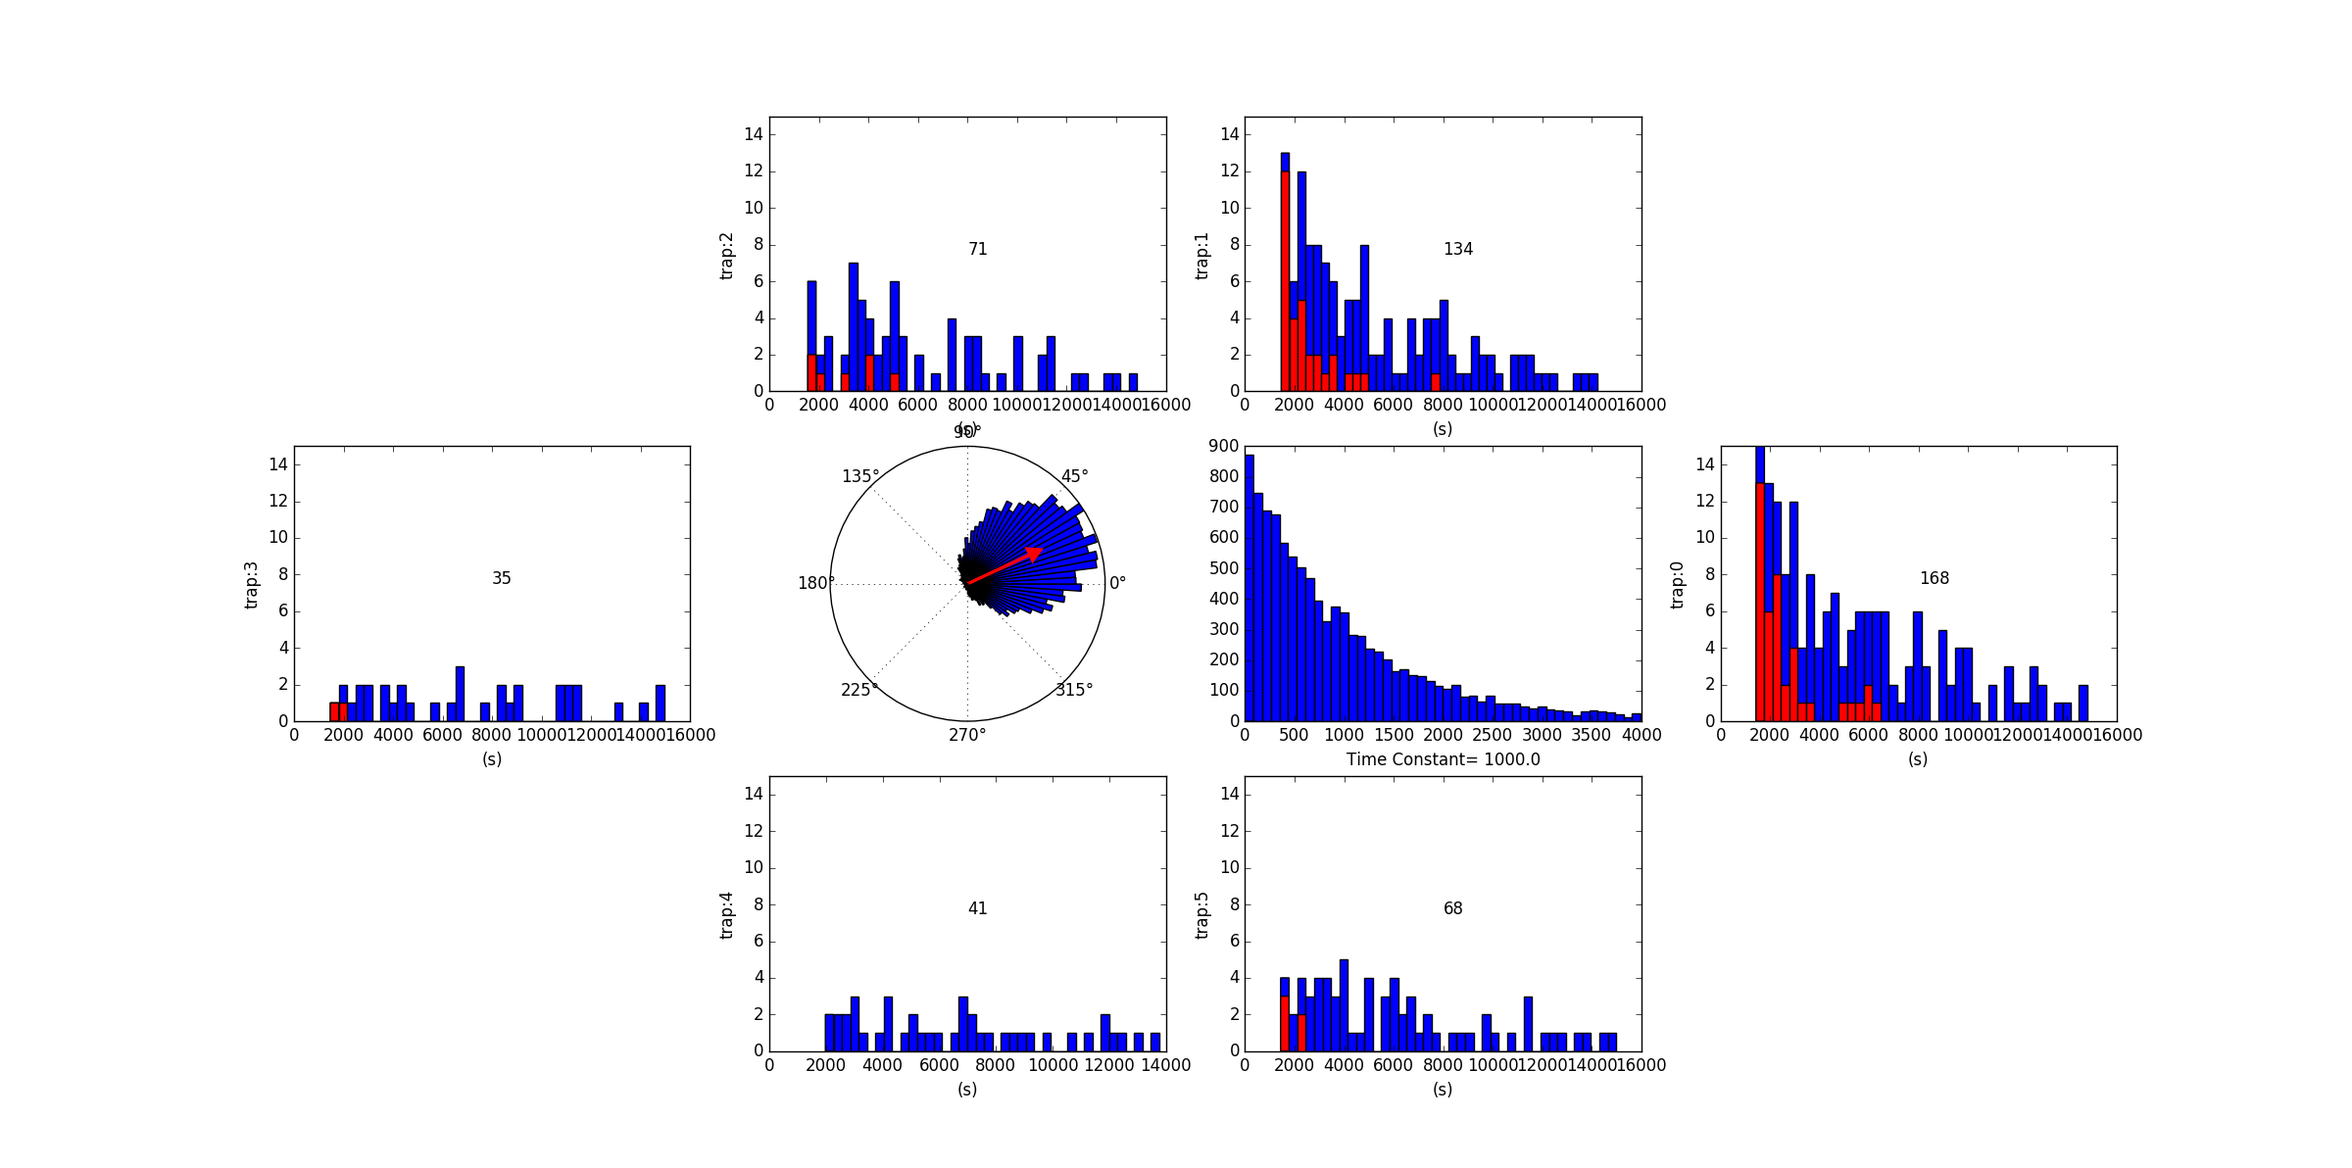
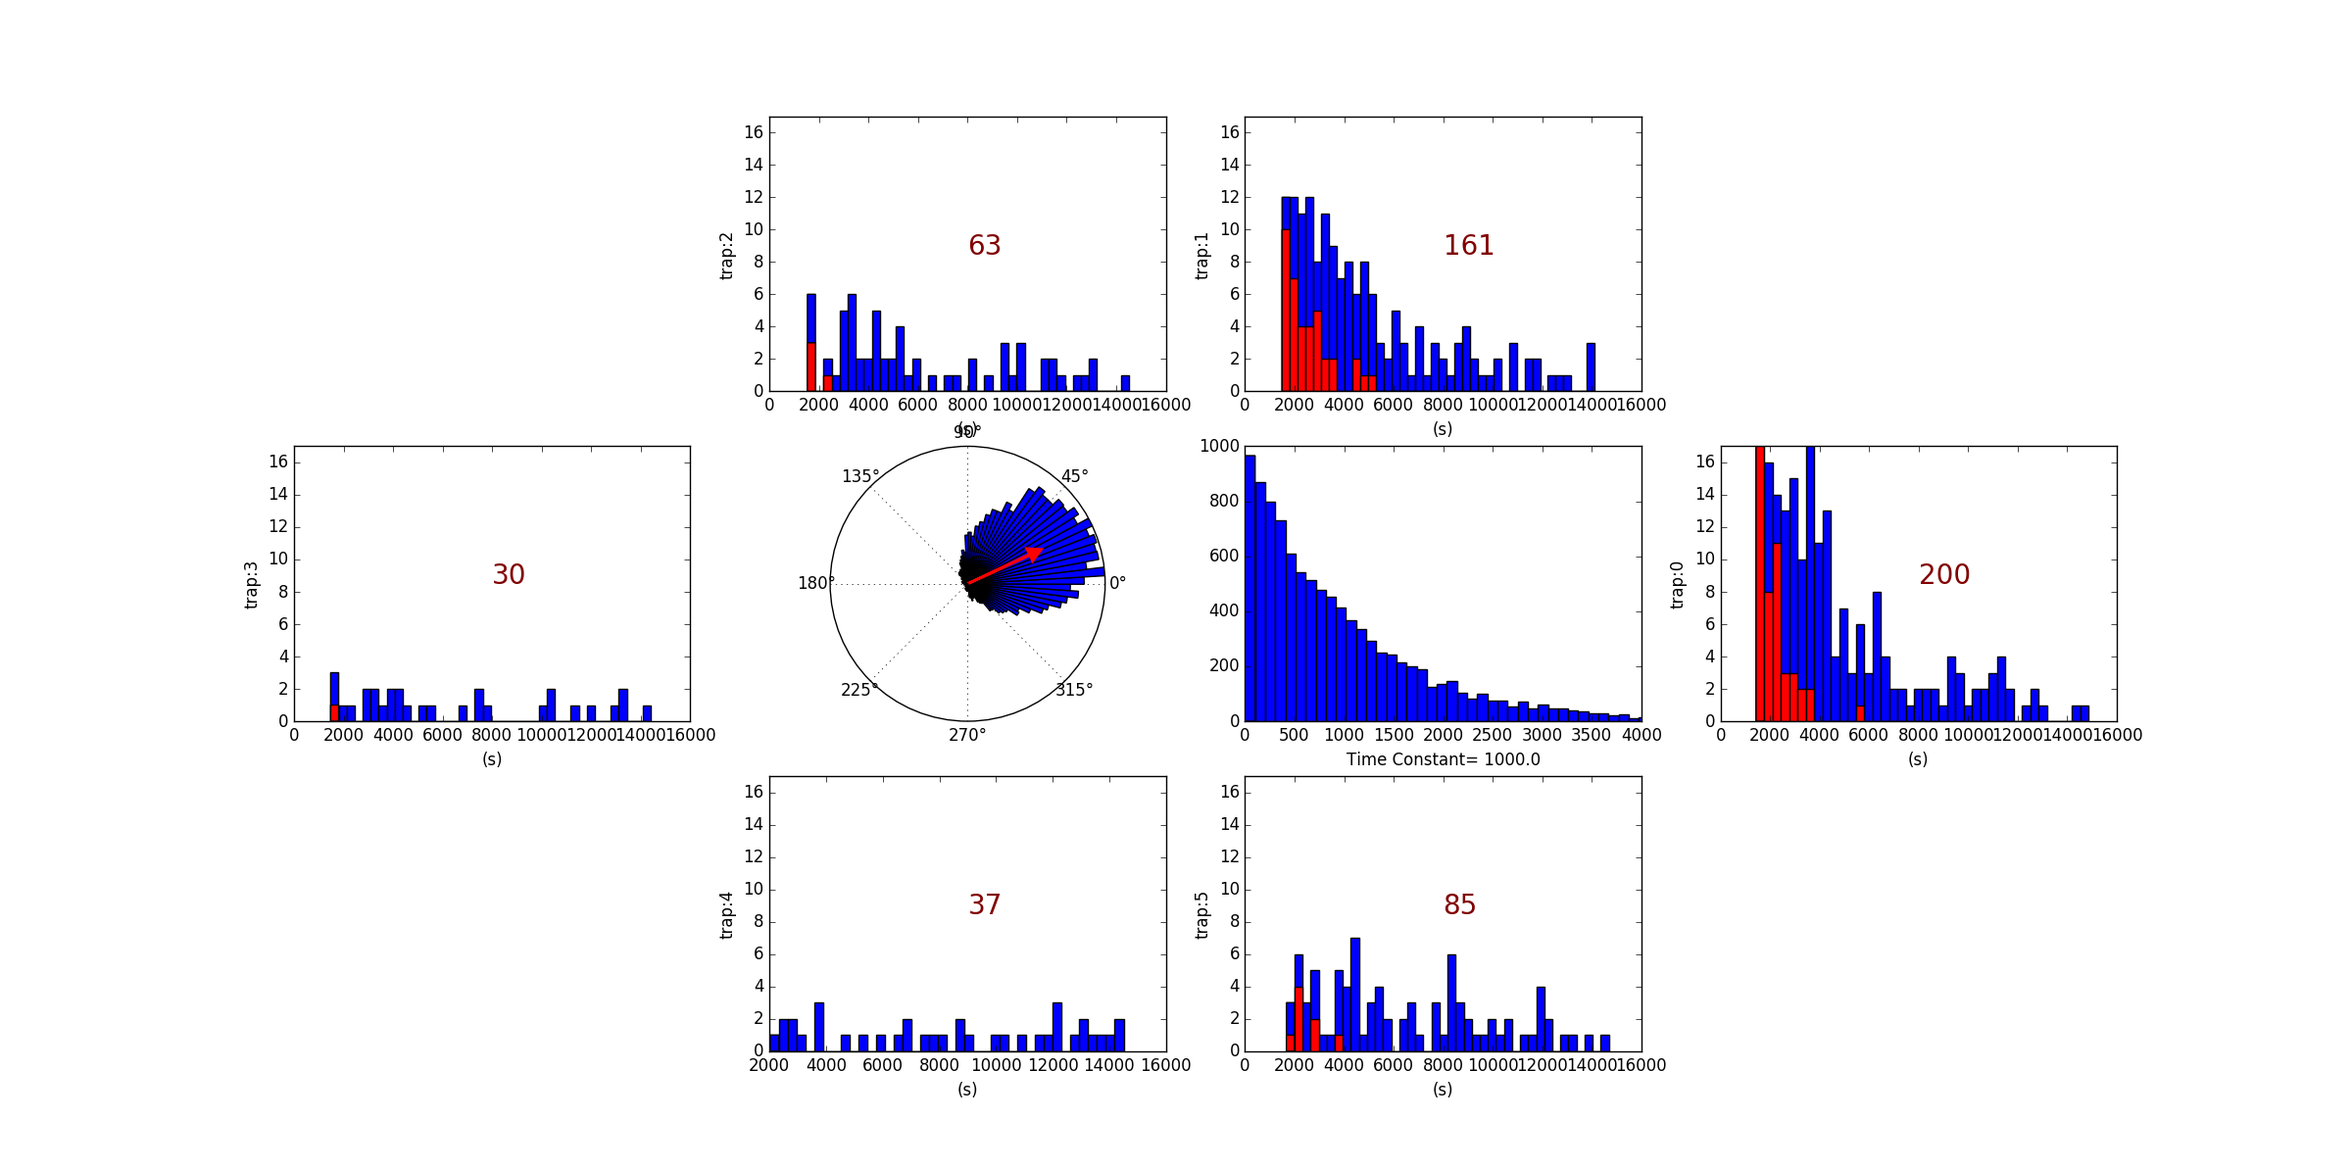
Updated simulation to accept a dictionary of empirical heading data, and run with an initial heading distribution fit to this data.

diff --git a/odor_tracking_sim/swarm_models.py b/odor_tracking_sim/swarm_models.py
@@ -1,11 +1,14 @@
 from __future__ import print_function
 import scipy
 import scipy.stats
+import time
 
 from utility import unit_vector
 from utility import rotate_vecs
 from utility import distance
 from utility import par_perp
+from utility import fit_von_mises
+
 
 
 class BasicSwarmOfFlies(object):
@@ -47,9 +50,14 @@ class BasicSwarmOfFlies(object):
         self.param = dict(self.DefaultParam)
         self.param.update(param)
         self.check_param()
-
         self.x_position = self.param['x_start_position']
         self.y_position = self.param['y_start_position']
+
+        if(not(self.param['heading_data']==None)):
+            heading_data = self.param['heading_data']
+            (mean,kappa) = fit_von_mises(heading_data)
+            self.param['initial_heading_dist'] = scipy.stats.vonmises(loc=mean,kappa=kappa)
+            self.param['initial_heading'] = scipy.random.vonmises(mean,kappa,(self.param['swarm_size'],))
         self.x_velocity = self.param['flight_speed']*scipy.cos(self.param['initial_heading'])
         self.y_velocity = self.param['flight_speed']*scipy.sin(self.param['initial_heading'])
         self.mode = scipy.full((self.size,), self.Mode_StartMode, dtype=int)
@@ -57,6 +65,10 @@ class BasicSwarmOfFlies(object):
         self.t_last_cast = scipy.zeros((self.size,))
 
         self.increments_until_turn = scipy.ones((self.size,)) #This is for the Levy walk option.
+        #self.uniform_directions_pool = scipy.radians(scipy.random.uniform(0.0,360.0,(100,)))#Again for the Levy walk option, to save time drawing.
+        #self.increments_pool = scipy.stats.lognorm.rvs(0.25,size=100,scale=
+        #(300/3.0)/0.25*
+        #scipy.exp(0))
 
         cast_interval = self.param['cast_interval']
         self.dt_next_cast = scipy.random.uniform(cast_interval[0], cast_interval[0], (self.size,))
@@ -129,55 +141,7 @@ class BasicSwarmOfFlies(object):
         # Update position based on mode and current velocities
         mask_trapped = self.mode == self.Mode_Trapped
 
-        if self.start_type=='fh' or sum(mask_startmode)<1.:
-            mask_move = mask_release & (~mask_trapped)
-            self.x_position[mask_move] += dt*self.x_velocity[mask_move]
-            self.y_position[mask_move] += dt*self.y_velocity[mask_move]
-        elif self.start_type=='rw':
-            #The flies who are not in start_mode move the same way
-            mask_move = mask_release & (~mask_trapped) & (~mask_startmode)
-            self.x_position[mask_move] += dt*self.x_velocity[mask_move]
-            self.y_position[mask_move] += dt*self.y_velocity[mask_move]
-            '''Option 1: path lengths are chosen from a heavy-tailed distribution'''
-            '''For those in startmode, the x step and y step of each fly is chosen from lognormal (heavy-tailed) distribution
-            right now the distribution is manually set up so that moving faster than peak velocity (1.8 m/s) happens with close to
-            0 probability: the distribution is lognormal with sigma = 0.25 and mu = 0, and then *(1.8/2.0)*timestep'''
-            sigma = 0.25
-            mu = 0
-            scaling_factor = (1.8/2.0)*dt #So that 1.8 m/s is the fastest it ever flies
-            draws = sum(mask_startmode)
-            self.x_position[mask_startmode] += scaling_factor*scipy.random.choice([1,-1],
-                size=draws)*scipy.stats.lognorm.rvs(sigma,size=draws,scale=scipy.exp(mu))
-            self.y_position[mask_startmode] += scaling_factor*scipy.random.choice([1,-1],
-                size=draws)*scipy.stats.lognorm.rvs(sigma,size=draws,scale=scipy.exp(mu))
-        elif self.start_type=='cvrw':
-            #All flies update position according to velocity, including start_mode flies
-            mask_move = mask_release & (~mask_trapped)
-            self.x_position[mask_move] += dt*self.x_velocity[mask_move]
-            self.y_position[mask_move] += dt*self.y_velocity[mask_move]
-            '''Option 2: Durations of a given direction are chosen from a heavy-tailed distribution
-            Draw from same kind of distribution as above, but round up for discrete time steps.
-            Distribution is lognormal with sigma = 0.5 and mu = 0, and then *(300/3.0)/timestep,
-            which makes the max occuring duration around 300 s= 5 min.'''
-            sigma = 0.5
-            mu = 0.
-            #Every fly
-
-            #Every startmode fly has one time step less left in current direction
-            self.increments_until_turn[mask_startmode&mask_move] -=1
-            #print(self.increments_until_turn[mask_startmode&mask_move])
-            #Flies whose time is up get assigned a new direction --> x and y velocity
-            mask_redraw = mask_move&mask_startmode & (self.increments_until_turn == 0)
-            if sum(mask_redraw)>0:
-                directions = scipy.radians(scipy.random.uniform(0.0,360.0,(sum(mask_redraw),)))
-                self.x_velocity[mask_redraw]=self.param['flight_speed'][0]*scipy.cos(directions)
-                self.y_velocity[mask_redraw]=self.param['flight_speed'][0]*scipy.sin(directions)
-                #and get assigned a new interval count until they change direction again
-                self.increments_until_turn[mask_redraw] = scipy.floor(
-                    scipy.stats.lognorm.rvs(sigma,size=sum(mask_redraw),scale=
-                    (300/3.0)/dt*
-                    scipy.exp(mu)))
-
+        self.update_positions(mask_release,mask_trapped,mask_startmode,dt)
 
         #Original: apply wind slippage to all flies
         #mask_move = mask_release & (~mask_trapped)
@@ -194,9 +158,6 @@ class BasicSwarmOfFlies(object):
         c2 = self.perp_coeff
         self.x_position += dt*(c1*self.par_wind[0,:]+c2*self.perp_wind[0,:])
         self.y_position += dt*(c1*self.par_wind[1,:]+c2*self.perp_wind[1,:])
-
-#            self.x_position[mask_startmode] += dt*(c1*wind_par[0,:]+c2*wind_perp[0,:])
-#            self.y_position[mask_startmode] += dt*(c1*wind_par[1,:]+c2*wind_perp[1,:])
 
 
     def update_for_odor_detection(self, dt, odor, wind_uvecs, masks):
@@ -330,6 +291,74 @@ class BasicSwarmOfFlies(object):
         mask_trap_num_set = self.trap_num != -1
         (trap_num_array,trap_counts)=scipy.unique(self.trap_num[mask_trap_num_set],return_counts = True)
         return trap_counts
+
+    def update_positions(self,mask_release,mask_trapped,mask_startmode,dt):
+        if self.start_type=='fh' or sum(mask_startmode)<1.:
+            mask_move = mask_release & (~mask_trapped)
+            self.x_position[mask_move] += dt*self.x_velocity[mask_move]
+            self.y_position[mask_move] += dt*self.y_velocity[mask_move]
+        elif self.start_type=='rw':
+            #The flies who are not in start_mode move the same way
+            mask_move = mask_release & (~mask_trapped) & (~mask_startmode)
+            self.x_position[mask_move] += dt*self.x_velocity[mask_move]
+            self.y_position[mask_move] += dt*self.y_velocity[mask_move]
+            '''Option 1: path lengths are chosen from a heavy-tailed distribution'''
+            '''For those in startmode, the x step and y step of each fly is chosen from lognormal (heavy-tailed) distribution
+            right now the distribution is manually set up so that moving faster than peak velocity (1.8 m/s) happens with close to
+            0 probability: the distribution is lognormal with sigma = 0.25 and mu = 0, and then *(1.8/2.0)*timestep'''
+            sigma = 0.25
+            mu = 0
+            scaling_factor = (1.8/2.0)*dt #So that 1.8 m/s is the fastest it ever flies
+            draws = sum(mask_startmode)
+            self.x_position[mask_startmode] += scaling_factor*scipy.random.choice([1,-1],
+                size=draws)*scipy.stats.lognorm.rvs(sigma,size=draws,scale=scipy.exp(mu))
+            self.y_position[mask_startmode] += scaling_factor*scipy.random.choice([1,-1],
+                size=draws)*scipy.stats.lognorm.rvs(sigma,size=draws,scale=scipy.exp(mu))
+        elif self.start_type=='cvrw':
+            start = time.time()
+            #All flies update position according to velocity, including start_mode flies
+            mask_move = mask_release & (~mask_trapped)
+            self.x_position[mask_move] += dt*self.x_velocity[mask_move]
+            self.y_position[mask_move] += dt*self.y_velocity[mask_move]
+
+            '''Option 2: Durations of a given direction are chosen from a heavy-tailed distribution
+            Draw from same kind of distribution as above, but round up for discrete time steps.
+            Distribution is lognormal with sigma = 0.5 and mu = 0, and then *(300/3.0)/timestep,
+            which makes the max occuring duration around 300 s= 5 min.'''
+            sigma = 0.5
+            mu = 0.
+        #Every fly
+
+        #Every startmode fly has one time step less left in current direction
+            self.increments_until_turn[mask_startmode&mask_move] -=1
+            #print(self.increments_until_turn[mask_startmode&mask_move])
+            #Flies whose time is up get assigned a new direction --> x and y velocity
+            mask_redraw = mask_move&mask_startmode & (self.increments_until_turn == 0)
+
+            cp = time.time()
+            draws = sum(mask_redraw)
+            if draws>0:
+                #directions = scipy.random.choice(self.uniform_directions_pool,draws)
+                sines, cosines = scipy.zeros(draws),scipy.zeros(draws)
+                for x in xrange(draws):
+                    direction = scipy.stats.uniform.rvs(0.0,2*scipy.pi)
+                    sines[x],cosines[x] = scipy.sin(direction),scipy.cos(direction)
+                #cp1 = time.time();print('cp1 :'+str(cp1-cp))
+                #self.x_velocity[mask_redraw]=self.param['flight_speed'][0]*scipy.cos(directions)
+                self.x_velocity[mask_redraw]=self.param['flight_speed'][0]*cosines
+                #cp2 = time.time();print(cp2-cp1)
+                self.y_velocity[mask_redraw]=self.param['flight_speed'][0]*sines
+                #self.y_velocity[mask_redraw]=self.param['flight_speed'][0]*scipy.sin(directions)
+                #cp3 = time.time();print(cp3-cp2)
+                #and get assigned a new interval count until they change direction again
+                self.increments_until_turn[mask_redraw] = scipy.floor(#scipy.random.choice(self.increments_pool,sum(mask_redraw))
+                    scipy.stats.lognorm.rvs(sigma,size=draws,scale=
+                    (300/3.0)/dt*
+                    scipy.exp(mu)))
+                #cp4 = time.time(); print(cp4-cp3)
+                #print(cp4-cp)
+
+
     def get_par_perp_comps(self,t,wind_field):
         x_wind, y_wind = wind_field.value(t,self.x_position, self.y_position)
         wind = scipy.array([x_wind,y_wind])

diff --git a/examples/run_and_save.py b/examples/run_and_save.py
@@ -12,12 +12,13 @@ import odor_tracking_sim.utility as utility
 
 def run_sim(file_name,wind_angle,release_time_constant,
 kappa=0.,t_stop=15000.0,display_speed=1,
-wind_slippage = 0.,swarm_size=10000,start_type='fh',upper_prob=0.002):
+wind_slippage = (0.,0.),swarm_size=10000,start_type='fh',upper_prob=0.002,heading_data=None):
     output_file = file_name+'.pkl'
     wind_angle=wind_angle*scipy.pi/180.0
     wind_param = {
             'speed': 0.5,
             'angle': wind_angle,
+            'evolving': False
             }
     wind_field = wind_models.ConstantWindField(param=wind_param)
 
@@ -43,6 +44,8 @@ wind_slippage = 0.,swarm_size=10000,start_type='fh',upper_prob=0.002):
     beta = release_time_constant #time constant for release time distribution
     swarm_param = {
         #    'initial_heading'     : scipy.radians(scipy.random.uniform(0.0,360.0,(swarm_size,))),
+            'swarm_size'          : swarm_size,
+            'heading_data'        : heading_data,
             'initial_heading_dist': scipy.stats.vonmises(loc=wind_angle,kappa=kappa),
             'initial_heading'     : scipy.random.vonmises(wind_angle,kappa,(swarm_size,)),
             'x_start_position'    : scipy.zeros((swarm_size,)),
@@ -64,7 +67,7 @@ wind_slippage = 0.,swarm_size=10000,start_type='fh',upper_prob=0.002):
                 'upper': upper_prob,  # detection probability/sec of exposure
                 }
             }
-    swarm = swarm_models.BasicSwarmOfFlies(param=swarm_param,start_type=start_type)
+    swarm = swarm_models.BasicSwarmOfFlies(wind_field,param=swarm_param,start_type=start_type)
     # Setup live plot
     fignum = 1
     plot_scale = 2.0
@@ -97,6 +100,7 @@ wind_slippage = 0.,swarm_size=10000,start_type='fh',upper_prob=0.002):
 
     while t<t_stop:
         print('t: {0:1.2f}'.format(t))
+        #start = time.time()
         swarm.update(t,dt,wind_field,odor_field)
         t+= dt
 
@@ -128,12 +132,17 @@ wind_slippage = 0.,swarm_size=10000,start_type='fh',upper_prob=0.002):
 
             #time.sleep(0.05)
 
-
+        #end = time.time()
     # Write swarm to file
     with open(output_file, 'w') as f:
         pickle.dump(swarm,f)
 
-run_sim('fh',25.,50.,t_stop=15000.,
-display_speed=1,swarm_size = 1000,start_type='fh',wind_slippage=1.,kappa=0.)
+heading_data = {'angles':(scipy.pi/180)*scipy.array([0.,90.,180.,270.]),
+                'counts':scipy.array([[1724,514,1905,4666],[55,72,194,192]])
+                }
+run_sim('fitting_heading_data_sim',45.,50.,t_stop=15000.,
+swarm_size =10000,start_type='fh',wind_slippage=(0.,0.),kappa=0.,upper_prob=0.002,
+display_speed=1.,heading_data=heading_data)
+
 
 raw_input('Done?')

diff --git a/odor_tracking_sim/odor_models.py b/odor_tracking_sim/odor_models.py
@@ -17,7 +17,7 @@ class FakeDiffusionOdorField(object):
     DefaultParam = {
             'wind_field'       : DefaultWindField,
             'diffusion_coeff'  : 0.001,
-            'source_locations' : [(0,0),], 
+            'source_locations' : [(0,0),],
             'source_strengths' : [ 1.0, ],
             'epsilon'          : 0.01,
             'trap_radius'      : 10.0,
@@ -39,7 +39,7 @@ class FakeDiffusionOdorField(object):
 
     def is_in_trap(self,pos):
         flag, trap_num, trap_loc = self.check_if_in_trap(pos)
-        return flag 
+        return flag
 
 
     def value(self,t,x,y):
@@ -59,7 +59,7 @@ class FakeDiffusionOdorField(object):
         if type(x) == scipy.ndarray:
             if x.shape != y.shape:
                 raise RuntimeError, 'shape of x and y must be the same'
-            odor_value = scipy.zeros(x.shape) 
+            odor_value = scipy.zeros(x.shape)
             for src_loc, src_val in zip(source_locations,source_strengths):
                 xx, yy = shift_and_rotate((x,y), src_loc, -wind_angle)
                 tt = xx/wind_speed
@@ -85,9 +85,9 @@ class FakeDiffusionOdorField(object):
 
     def plot(self, plot_param):
         xlim = plot_param['xlim']
-        ylim = plot_param['ylim'] 
+        ylim = plot_param['ylim']
         xnum = plot_param['xnum']
-        ynum = plot_param['ynum']  
+        ynum = plot_param['ynum']
         cmap = plot_param['cmap']
 
 
@@ -124,7 +124,7 @@ class FakeDiffusionOdorField(object):
 
         if threshold is not None:
             plt.figure(fignums[1])
-            odor_thresh = odor_value >= threshold 
+            odor_thresh = odor_value >= threshold
             plt.imshow(odor_thresh, extent=(xlim[0],xlim[1],ylim[0],ylim[1]),cmap=cmap)
             for x,y in self.param['source_locations']:
                 plt.plot([x],[y],'.k')
@@ -134,9 +134,3 @@ class FakeDiffusionOdorField(object):
             plt.xlabel('x (m)')
             plt.ylabel('y (m)')
             plt.title('Odor Concentration >= {0}'.format(threshold))
-
-
-
-
-
-

diff --git a/examples/plot_swarm_data.py b/examples/plot_swarm_data.py
@@ -3,7 +3,7 @@ import math
 import matplotlib.pyplot as plt
 import cPickle as pickle
 
-f = 'levy_walk'
+f = 'fitting_heading_data_sim'
 input_file = f+'.pkl'
 
 with open(input_file,'r') as f:
@@ -70,14 +70,16 @@ facecolor = 'red', lw = 2, zorder = 1,head_width=0.2,head_length=30)
 ax8 = plt.subplot2grid((3,4),(1,2))
 
 #The below will plot the pdf of the heading distribution
-'''angles = scipy.linspace(heading_mean-scipy.pi,heading_mean+scipy.pi,400)
+angles = scipy.linspace(heading_mean-scipy.pi,heading_mean+scipy.pi,400)
 ax8.plot(angles,heading_dist.pdf(angles))
-ax8.set_xlabel('Variance = '+str(round(heading_dist.var(),3)))
-ax8.set_ylim(0,0.6)'''
+ax8.set_xlabel('Variance = '+str(round(heading_dist.var(),3))+
+'(Kappa = '+str(round(heading_dist.kwds['kappa'],4))+') ')
+ax8.set_ylim(0,0.6)
 
 #The below will plot the time course of the departures from the release point
-release_times = swarm.param['release_time']
+'''release_times = swarm.param['release_time']
 ax8.hist(release_times,bins=100)
 ax8.set_xlabel('Time Constant= '+str(round(swarm.param['release_time_constant'],3)))
-ax8.set_xlim((0,4000))
+ax8.set_xlim((0,4000))'''
+
 plt.show()

diff --git a/odor_tracking_sim/utility.py b/odor_tracking_sim/utility.py
@@ -1,4 +1,5 @@
 import scipy
+import scipy.stats
 import math
 
 
@@ -77,6 +78,25 @@ def par_perp(u,v):
 def test_function(x):
     return x
 
+
+def fit_von_mises(heading_data):
+    #Returns tuple (mean, kappa) of the von mises fit to inputted data.
+    #Structure of input: heading data is dict with
+    #key1: 'angles' : 1xn array of angles
+    #key2: 'counts' : mxn array of angle counts
+    angles = heading_data['angles']
+    counts = heading_data['counts']
+    #Create a weighted histogram where each row gets weight inversely proportional to
+    counts[1,:] = 5*counts[1,:]
+    counts = scipy.sum(counts,0)
+    #Fit the histogram to a von mises
+    draws = tuple(scipy.repeat(angles[i],counts[i]) for i in range(len(angles)))
+    headings = scipy.concatenate(draws)
+    #import matplotlib.pyplot as plt
+    #plt.subplot(111,polar=True);plt.hist(headings);plt.show()
+    (kappa_est,mu_est,scale) = scipy.stats.vonmises.fit(headings,fscale=1)
+    #raw_input('Done?')
+    return mu_est, kappa_est
 
 
 # Testing/development
